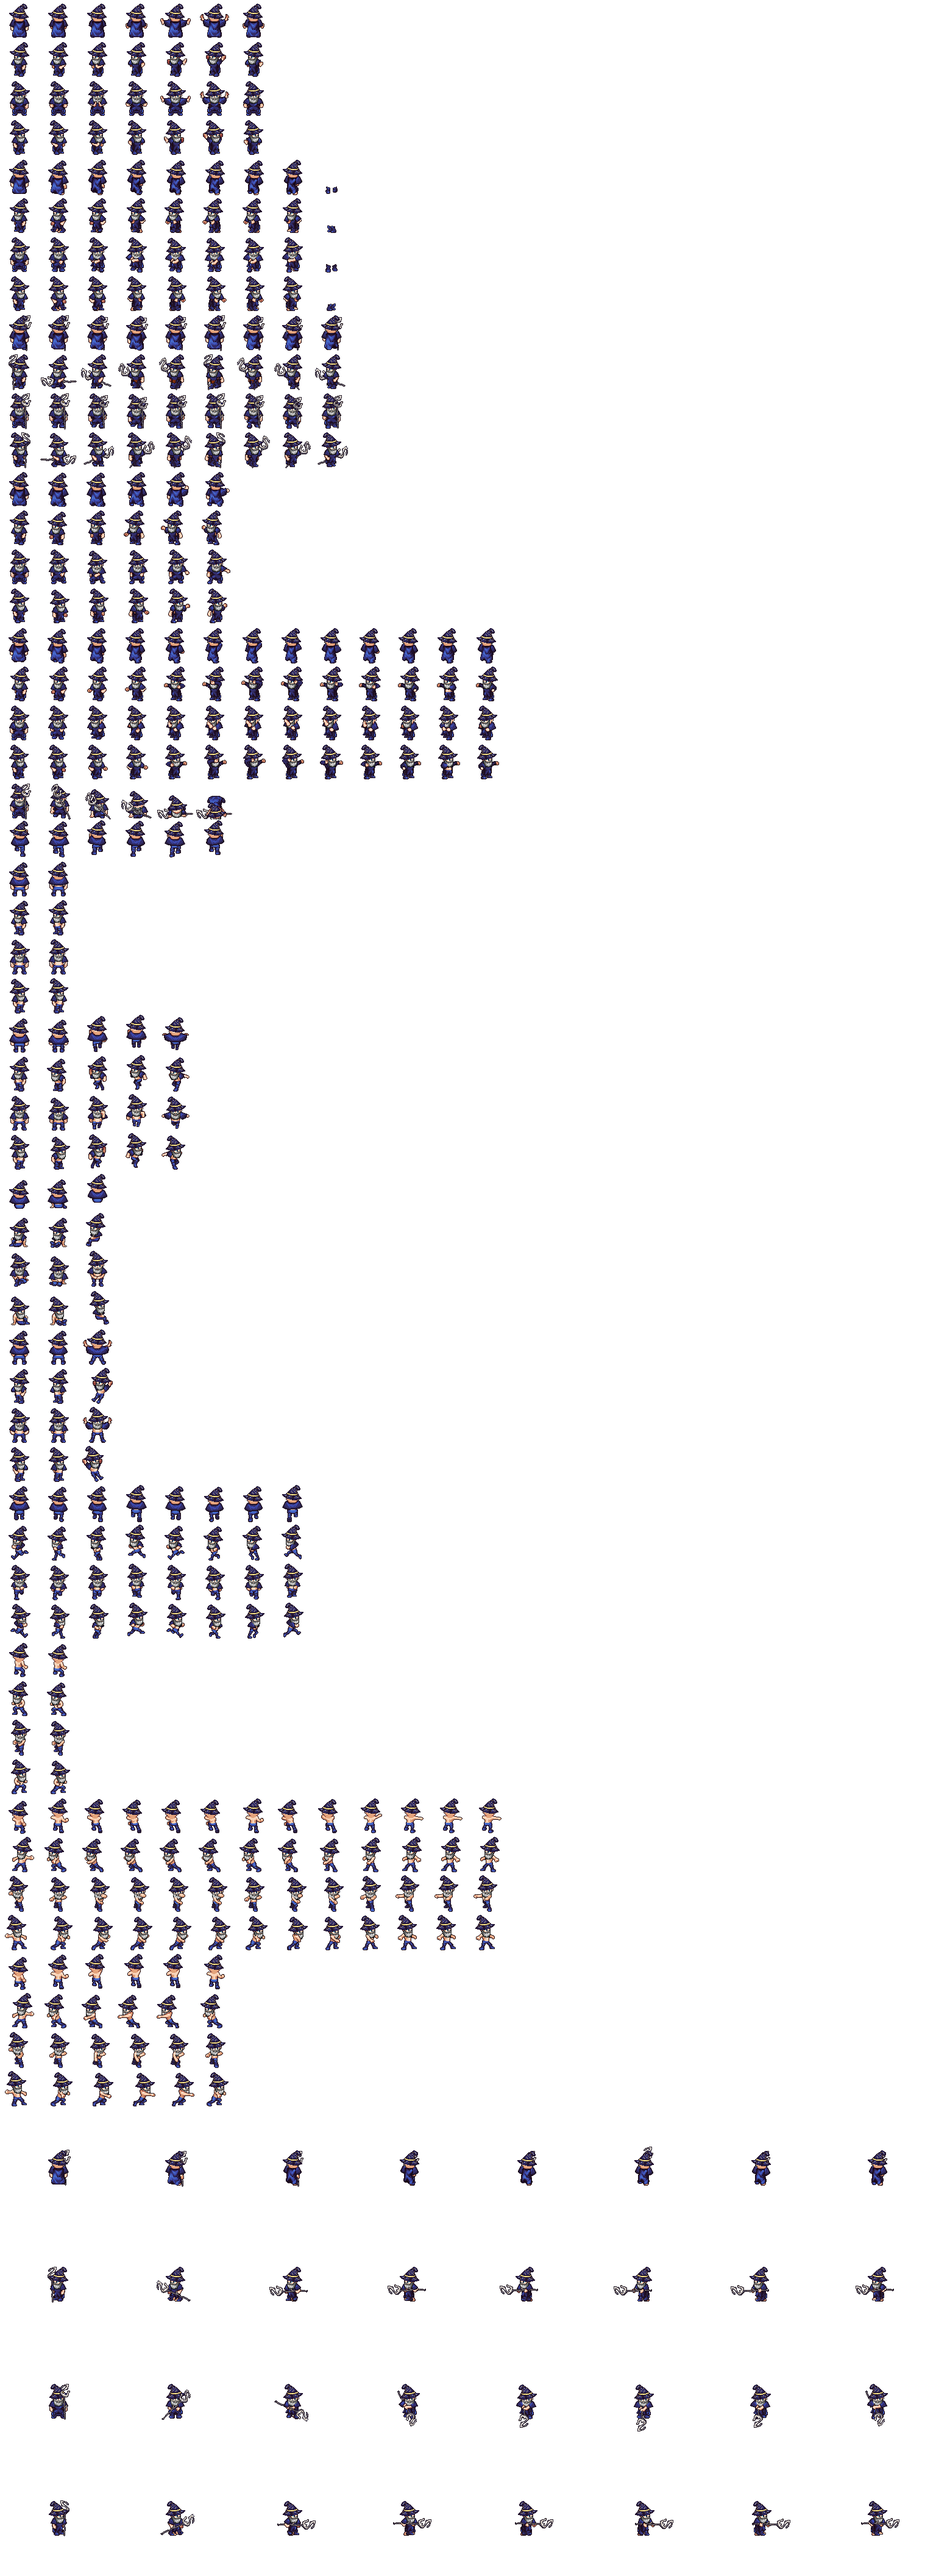
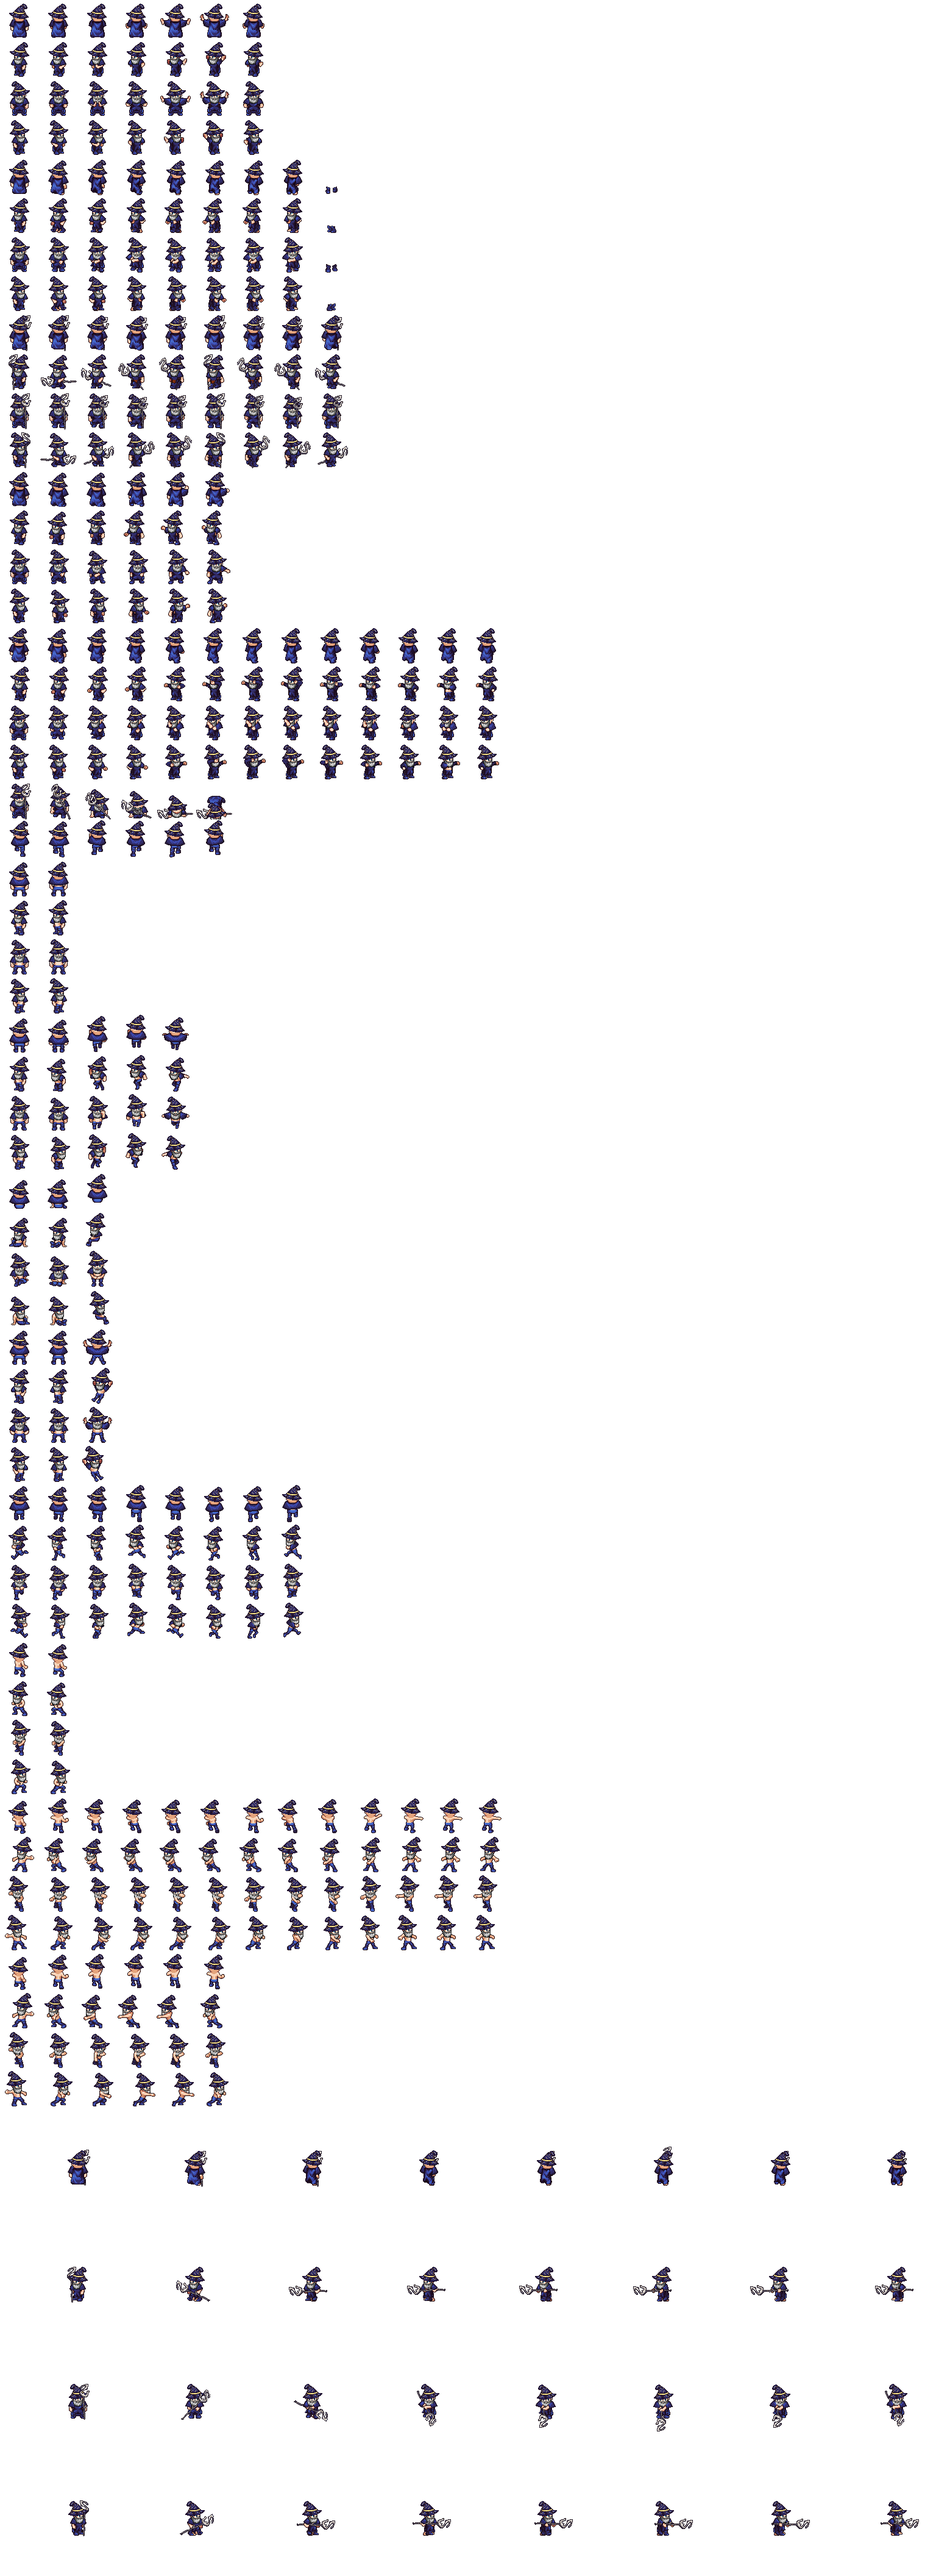
Reverting shift for units spritesheets

diff --git a/roadmap.md b/roadmap.md
@@ -41,7 +41,8 @@ Najistotniejsze elementy związane z rozwojem projektu, z podziałem na tygodnie
 - początkowe próby przygotowania klatek animacji dla chodzenia, ataku i śmierci
 
 ### 04 V - 10 V
-- 
+- poprawienie klatek animacji dla chodzenia i ataku (ponowne ich przesunięcie w spritesheetach LPC)
+- aktualizacja wybranych klatek dla postaci, aby ruch wyglądał naturalnie
 
 ### 11 V - 17 V
 - 
